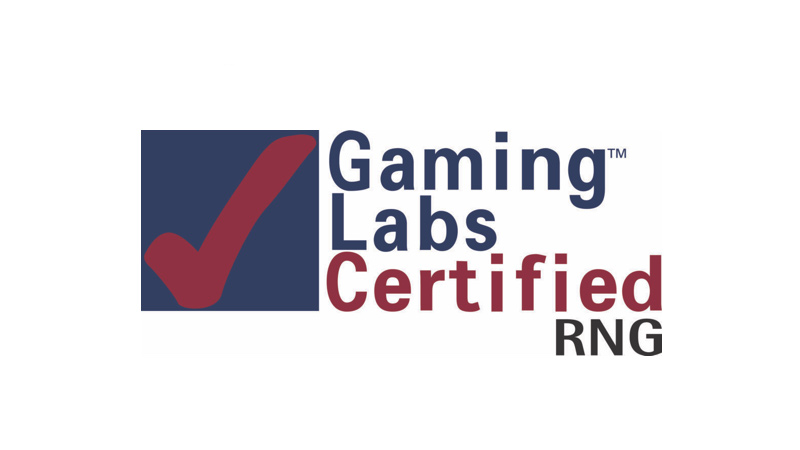
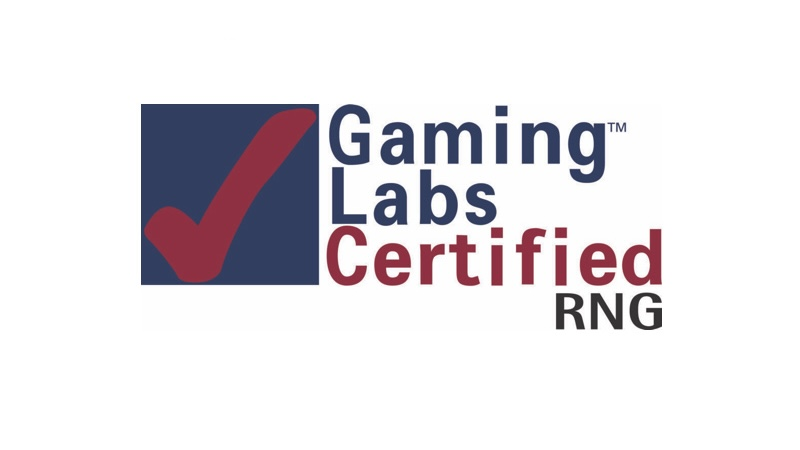
gli

Changed region(s): [[0.1562, 0.2178, 0.8438, 0.8089]]

diff --git a/src/app/(main)/page.tsx b/src/app/(main)/page.tsx
@@ -10,7 +10,7 @@ import fidealisLogoImg from '/public/img/fidealis-logo-300w.png'
 import randomWinLogoImg from '/public/img/random-win-logo.png'
 import heroDemoJpegImg from '/public/img/step1.jpeg'
 import bmmTestlabsImg from '/public/img/bmm-testlabs.jpg'
-import gliRngImg from '/public/img/GLI-RNG.jpg'
+import gliRngImg from '/public/img/GLI-RNG-smaller.jpg'
 import chainlinkVrfImg from '/public/img/chainlink-vrf.avif'
 import step1Img from '/public/img/step1.jpeg'
 import step2Img from '/public/img/step2.jpeg'
@@ -34,7 +34,7 @@ import {
 
 const videos = [
     {
-        description: 'Our random numbers are generated by Chainlink VRF which is the blockchain industry\'s most widely adopted random number generator (RNG). Chainlink VRF eliminates the risks of traditional RNG solutions.',
+        description: 'We use Chainlink VRF as a verifiable source of randomness. Chainlink VRF is the blockchain industry\'s most widely adopted random number generator (RNG), it eliminates the risks of traditional RNG solutions.',
         imageUrl: chainlinkVrfImg,
         videoUrl: 'https://chain.link/vrf',
         // videoUrl: 'https://bmm.com/bmm-testlabs-grants-the-first-compliance-certification-in-the-blockchain-industry-to-chainlink-vrf/',
@@ -45,10 +45,15 @@ const videos = [
         videoUrl: 'https://www.youtube.com/watch?v=4oVa9vfy-cE',
     },
     {
-        description: 'Swiss journalists from Insight Media made a video about us to promote the solution in Switzerland.',
-        imageUrl: insightMediaImg,
-        videoUrl: 'https://www.instagram.com/reel/CwS0Ip6IBp-/',
-    }
+        description: 'Our smart contract and the random numbers it generates have been audited by Gaming Labs, which has the most experienced and robust RNG testing methodologies in the world.',
+        imageUrl: gliRngImg,
+        videoUrl: 'https://gaminglabs.com/services/igaming/random-number-generator-rng/',
+    },
+    // {
+    //     description: 'Swiss journalists from Insight Media made a video about us to promote the solution in Switzerland.',
+    //     imageUrl: insightMediaImg,
+    //     videoUrl: 'https://www.instagram.com/reel/CwS0Ip6IBp-/',
+    // }
 ]
 
 
